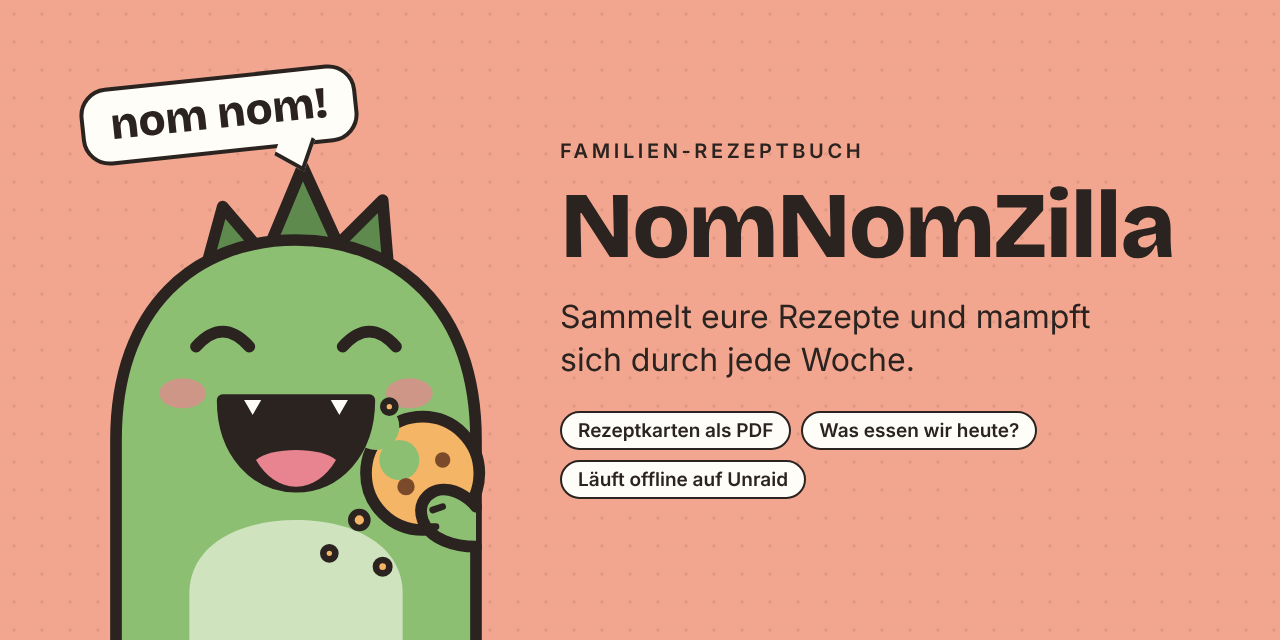
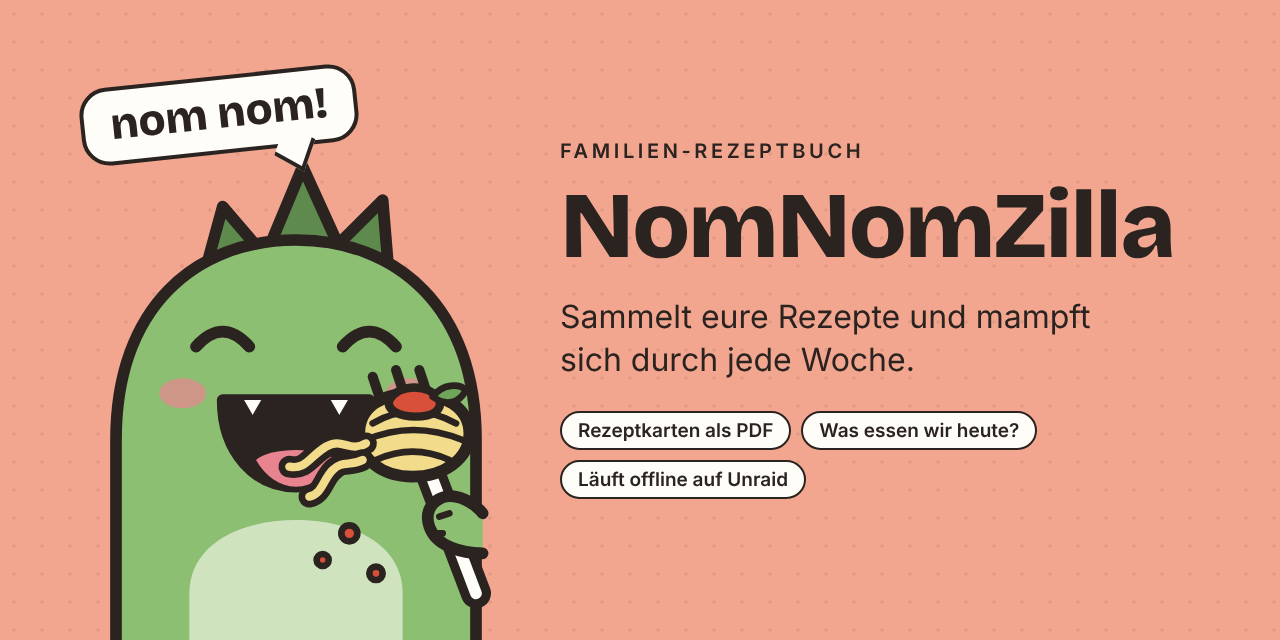
Zilla mampft jetzt Spaghetti statt Keks
Das Monster isst im App-Icon jetzt Spaghetti mit Tomatensoße von der
Gabel. Aktualisiert: public/icon.svg/png, Website-Kopien in
docs/assets/img, Social Card, Header-Screenshot der Website und die
fallenden Krümel der Website-Animation (jetzt Soßentropfen).

Claude-Session: https://claude.ai/code/session_01VV9VnQPg4FJLVAZrDGgC7B

Changed region(s): [[0.2188, 0.5625, 0.4062, 0.9375]]

diff --git a/docs/assets/css/site.css b/docs/assets/css/site.css
@@ -8,7 +8,7 @@
 
 :root{
   --bg:#FFFDF8;--ink:#2A2320;--mute:#6b5f55;--line:#E7DED3;--panel:#fff;
-  --band:#F2A68F;--green:#8DBF73;--cookie:#F5B567;--code:#F6EFE6;
+  --band:#F2A68F;--green:#8DBF73;--sauce:#D9503A;--code:#F6EFE6;
   color-scheme:light;
 }
 @media (prefers-color-scheme:dark){
@@ -48,7 +48,7 @@ section>h2{font-size:clamp(30px,4.5vw,46px)}
 .zilla{position:relative;justify-self:center;width:min(340px,80%)}
 .zilla img{width:100%;border-radius:22%;border:3px solid #2A2320;box-shadow:10px 10px 0 #2A2320;animation:bob 3.2s ease-in-out infinite;transform-origin:50% 90%}
 .bubble{position:absolute;top:-10px;right:-14px;background:#FFFDF8;color:#2A2320;border:2.5px solid #2A2320;border-radius:18px 18px 18px 4px;padding:8px 14px;font:800 18px "Bricolage Grotesque",sans-serif;transform:rotate(6deg);animation:pop 3.2s ease-in-out infinite}
-.crumb{position:absolute;width:12px;height:12px;border-radius:50%;background:var(--cookie);border:2px solid #2A2320;animation:fall 2.4s ease-in infinite}
+.crumb{position:absolute;width:12px;height:12px;border-radius:50%;background:var(--sauce);border:2px solid #2A2320;animation:fall 2.4s ease-in infinite}
 .c1{left:66%;bottom:20%}.c2{left:58%;bottom:14%;animation-delay:.8s;width:9px;height:9px}.c3{left:74%;bottom:10%;animation-delay:1.5s}
 @keyframes bob{0%,100%{transform:rotate(-2deg)}50%{transform:rotate(2deg) translateY(-6px)}}
 @keyframes pop{0%,100%{transform:rotate(6deg) scale(1)}50%{transform:rotate(2deg) scale(1.08)}}
